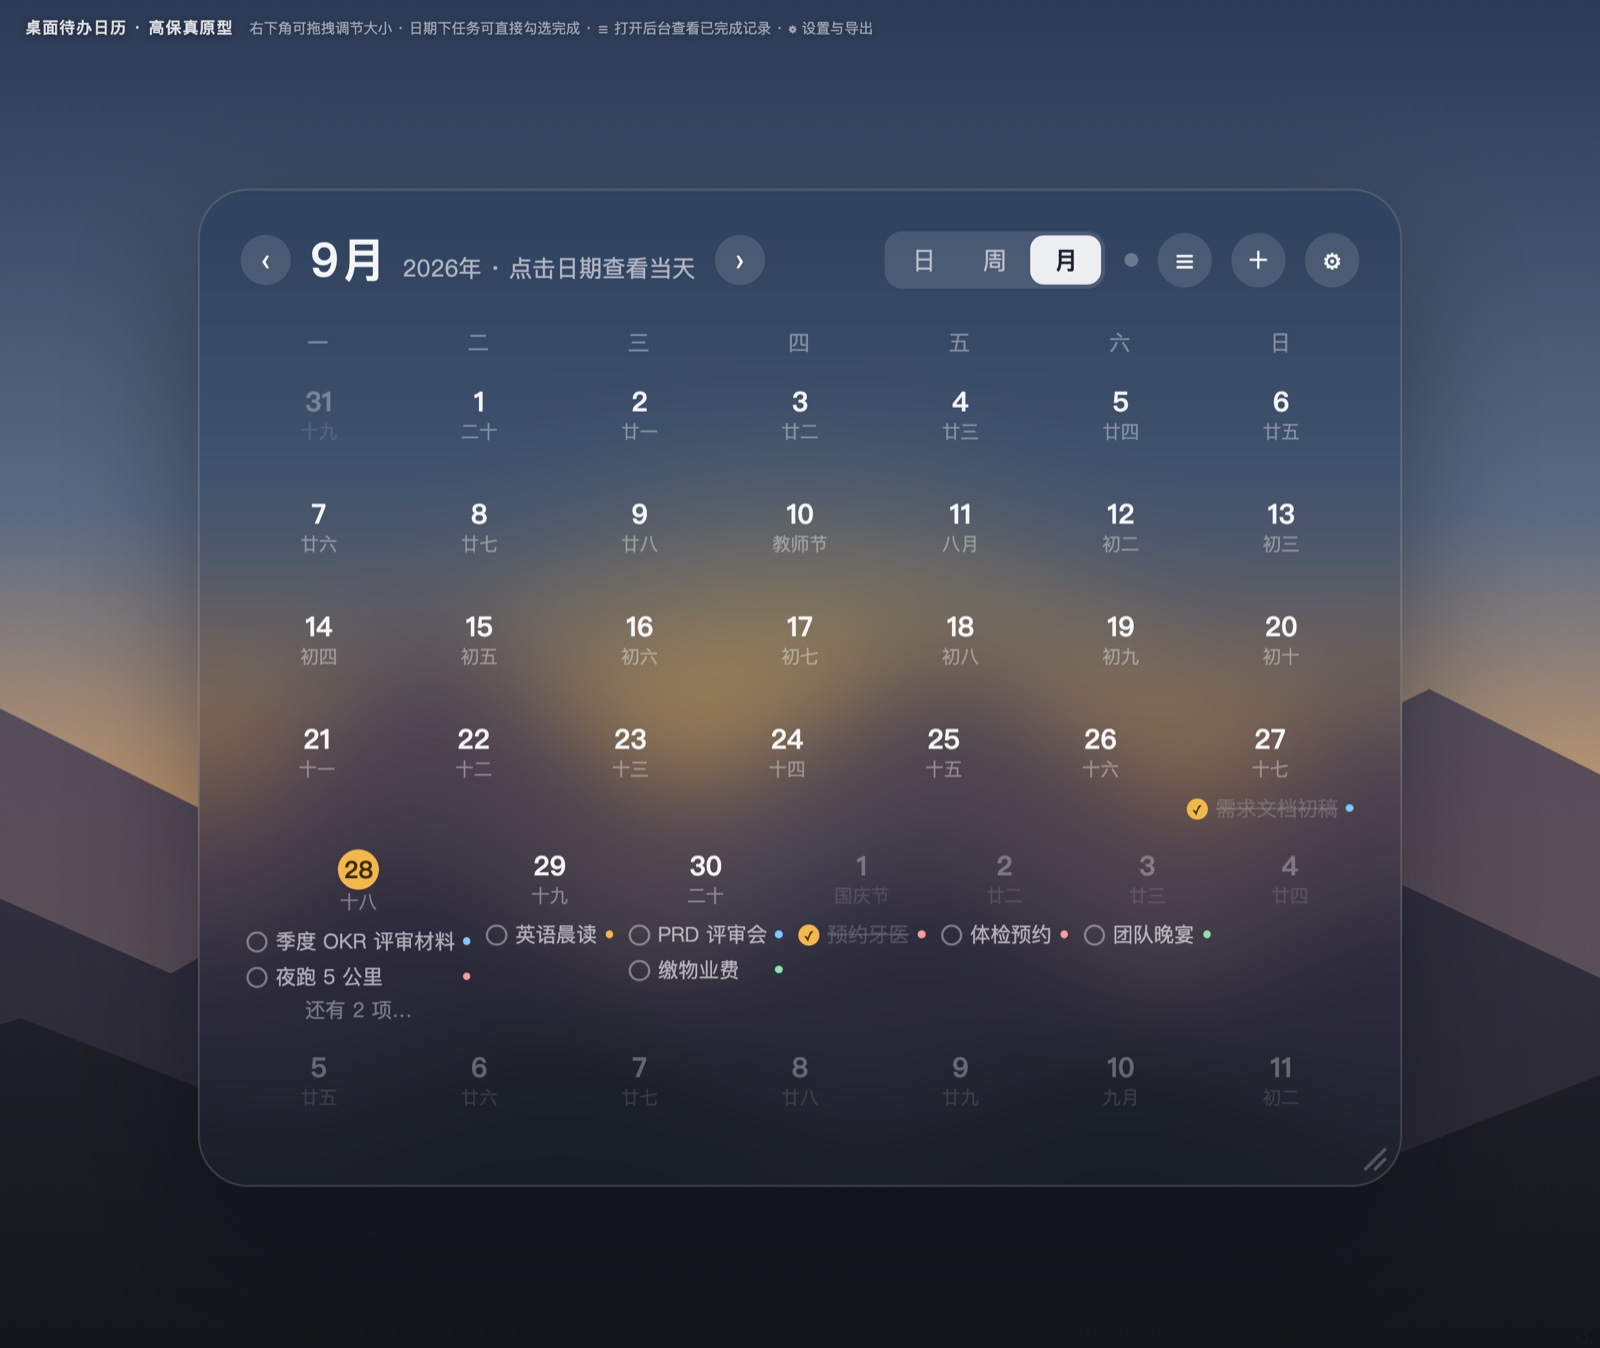
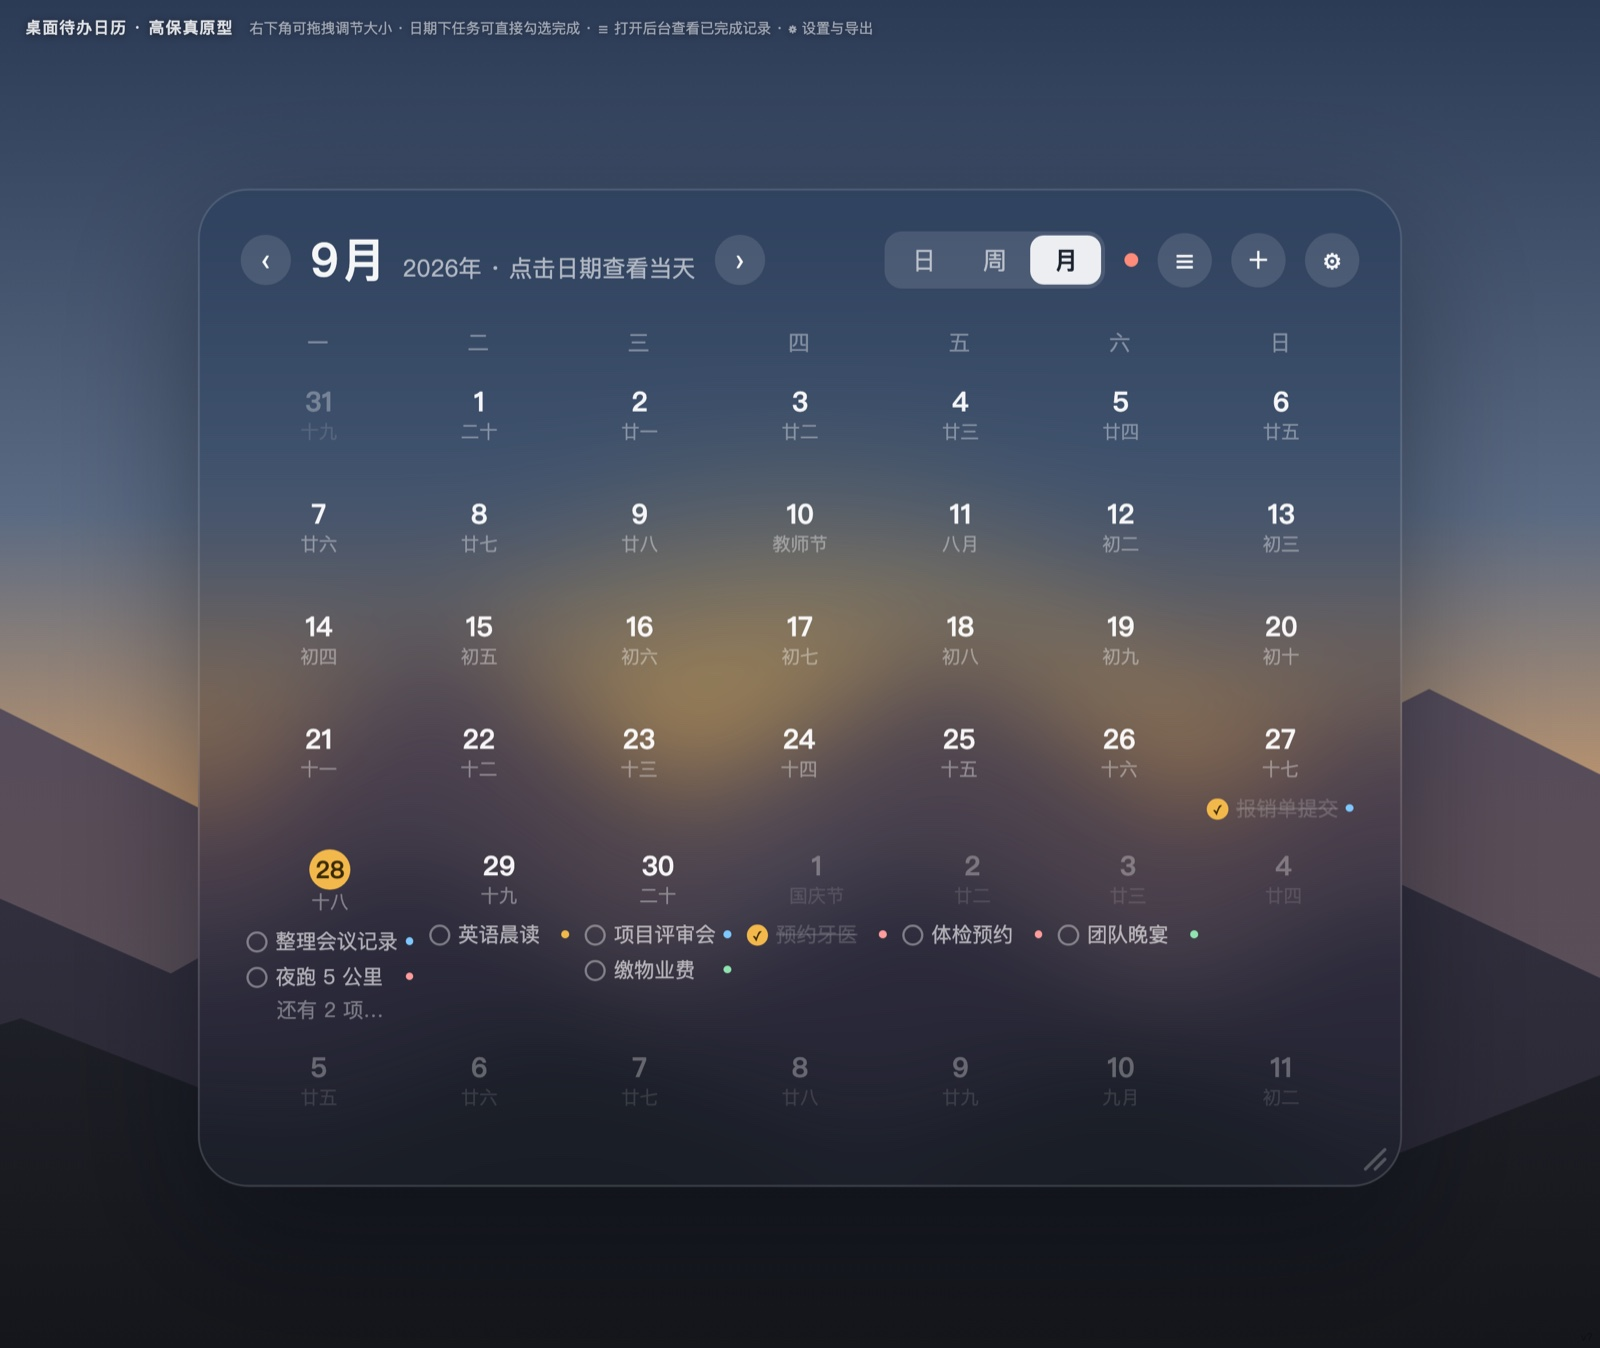
内置演示待办换成中性文案，截图同步重出
原来那 11 条里「季度 OKR 评审材料」「PRD 评审会」「需求文档初稿」
凑在一起会指向具体职业，换成开会、邮件、报销、家务一类通用事项，
条目数量、日期分布、时间与分类都不变，截图按新数据重新渲染。

diff --git a/index.html b/index.html
@@ -502,17 +502,17 @@ const defaultState = () => ({
     { id:'health',name:'健康', color:'#ff9d9d' },
   ],
   todos: [
-    { id:1, title:'季度 OKR 评审材料', date: today(), time:'10:00', cat:'work',  done:false },
-    { id:2, title:'给老板发周报',       date: today(), time:'',      cat:'work',  done:true  },
-    { id:3, title:'夜跑 5 公里',        date: today(), time:'20:30', cat:'health',done:false },
-    { id:4, title:'《三体》第三章',     date: today(), time:'',      cat:'study', done:false },
-    { id:5, title:'缴物业费',           date: addDays(2), time:'',   cat:'life',  done:false },
-    { id:6, title:'PRD 评审会',         date: addDays(2), time:'14:00', cat:'work', done:false },
-    { id:7, title:'体检预约',           date: addDays(4), time:'09:00', cat:'health',done:false },
-    { id:8, title:'英语晨读',           date: addDays(1), time:'07:30', cat:'study', done:false },
-    { id:9, title:'团队晚宴',           date: addDays(5), time:'18:30', cat:'life',  done:false },
-    { id:10,title:'需求文档初稿',       date: addDays(-1),time:'',      cat:'work',  done:true  },
-    { id:11,title:'预约牙医',           date: addDays(3), time:'',      cat:'health',done:true  },
+    { id:1, title:'整理会议记录',  date: today(), time:'10:00', cat:'work',  done:false },
+    { id:2, title:'回复未读邮件',  date: today(), time:'',      cat:'work',  done:true  },
+    { id:3, title:'夜跑 5 公里',   date: today(), time:'20:30', cat:'health',done:false },
+    { id:4, title:'《三体》第三章', date: today(), time:'',      cat:'study', done:false },
+    { id:5, title:'缴物业费',      date: addDays(2), time:'',      cat:'life',  done:false },
+    { id:6, title:'项目评审会',    date: addDays(2), time:'14:00', cat:'work',  done:false },
+    { id:7, title:'体检预约',      date: addDays(4), time:'09:00', cat:'health',done:false },
+    { id:8, title:'英语晨读',      date: addDays(1), time:'07:30', cat:'study', done:false },
+    { id:9, title:'团队晚宴',      date: addDays(5), time:'18:30', cat:'life',  done:false },
+    { id:10,title:'报销单提交',    date: addDays(-1),time:'',      cat:'work',  done:true  },
+    { id:11,title:'预约牙医',      date: addDays(3), time:'',      cat:'health',done:true  },
   ],
   settings: { w:620, scale:100, alpha:30, blur:28, darkText:false, hideDone:false, showTasks:true },
   hidden: [],
